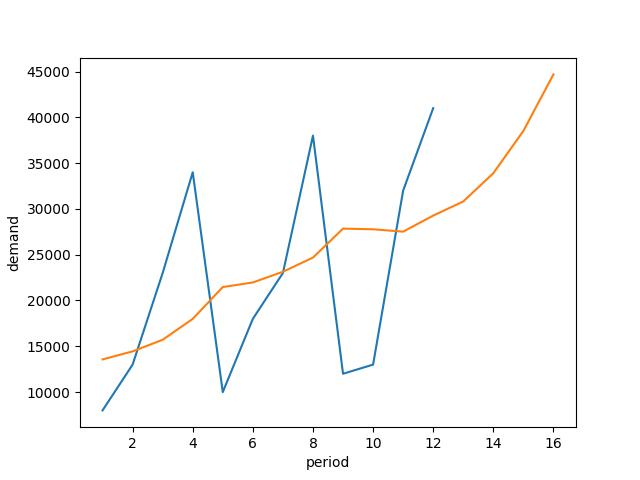
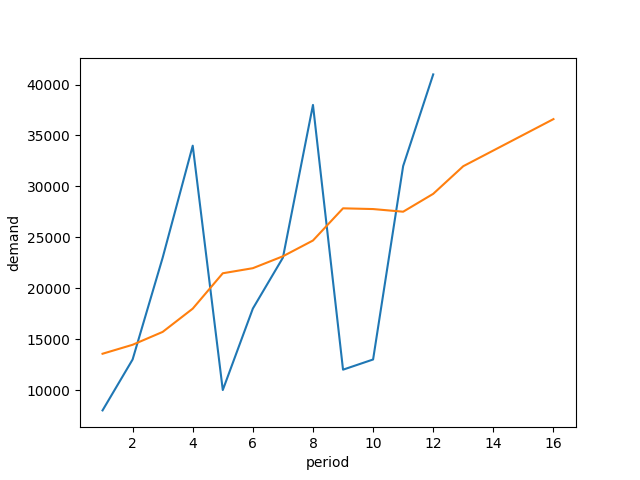
push

diff --git a/src/cycle.py b/src/cycle.py
@@ -1,0 +1,29 @@
+import math
+import numpy as np
+
+def cycle_inventory(xlsx,demand,S,h,C):
+  cycle_inventory = xlsx.add_worksheet('Find_EOQ_cycle_inventory')
+  D = np.sum(demand)
+  ret = math.sqrt((2*D*S)/(h*C))  
+  c_names = ['Annual demand (Forecasted,cumulative)','Shipment cost','Holding cost ', 'Material Cost ']
+  row = 0
+  col = 0
+  for name in (c_names):
+    cycle_inventory.write (row,col,name)
+    col += 1
+
+  row = 1
+  col = 0
+  cycle_inventory.write(row,col,D)
+  cycle_inventory.write(row,col+1,S)
+  cycle_inventory.write(row,col+2,h)
+  cycle_inventory.write(row,col+3,C)
+  row = 2  
+  col = 0
+  cycle_inventory.write(row,col,"OPTIMAL LOT SIZE")
+  cycle_inventory.write(row+1,col,ret)
+  row = 2  
+  col = 1
+  cycle_inventory.write(row,col,"Cycle Inventory")
+  cycle_inventory.write(row+1,col,ret/2)
+  return ret

diff --git a/src/run.py b/src/run.py
@@ -1,4 +1,5 @@
 import forecast
+import cycle
 import xlsxwriter
 import numpy as np
 import pandas as pd
@@ -101,4 +102,6 @@ if __name__ == "__main__":
   simple_exponential_smoothing = forecast.simple_exponential_smoothing(xlsx,data,graphpath,alpha)
   holt = forecast.holt_trend_corrected_exponential_smoothing(xlsx,data,graphpath,alpha,beta)
   winter = forecast.winter_trend_seasonality_forecast(xlsx,data,graphpath,alpha,beta,gamma,slope,intercept,avg_sea)
+  QL = cycle.cycle_inventory(xlsx,winter.get_forecast(),1000,0.2,1000) 
+  print (QL)
   xlsx.close()

diff --git a/src/forecast.py b/src/forecast.py
@@ -608,7 +608,6 @@ def holt_trend_corrected_exponential_smoothing(xlsx,data,dirpath,alpha,beta):
   col = 4
   for x in range (num_demand,num_demand+num_predicted):
     period = np.concatenate([period,[x+1]])
-    print (x-num_demand+1)
     predict = (lvl[len(lvl)-1] + ((x-num_demand+1) * tnd[len(tnd)-1]))
     fcast.append(predict)
     fcasted.append(predict)
